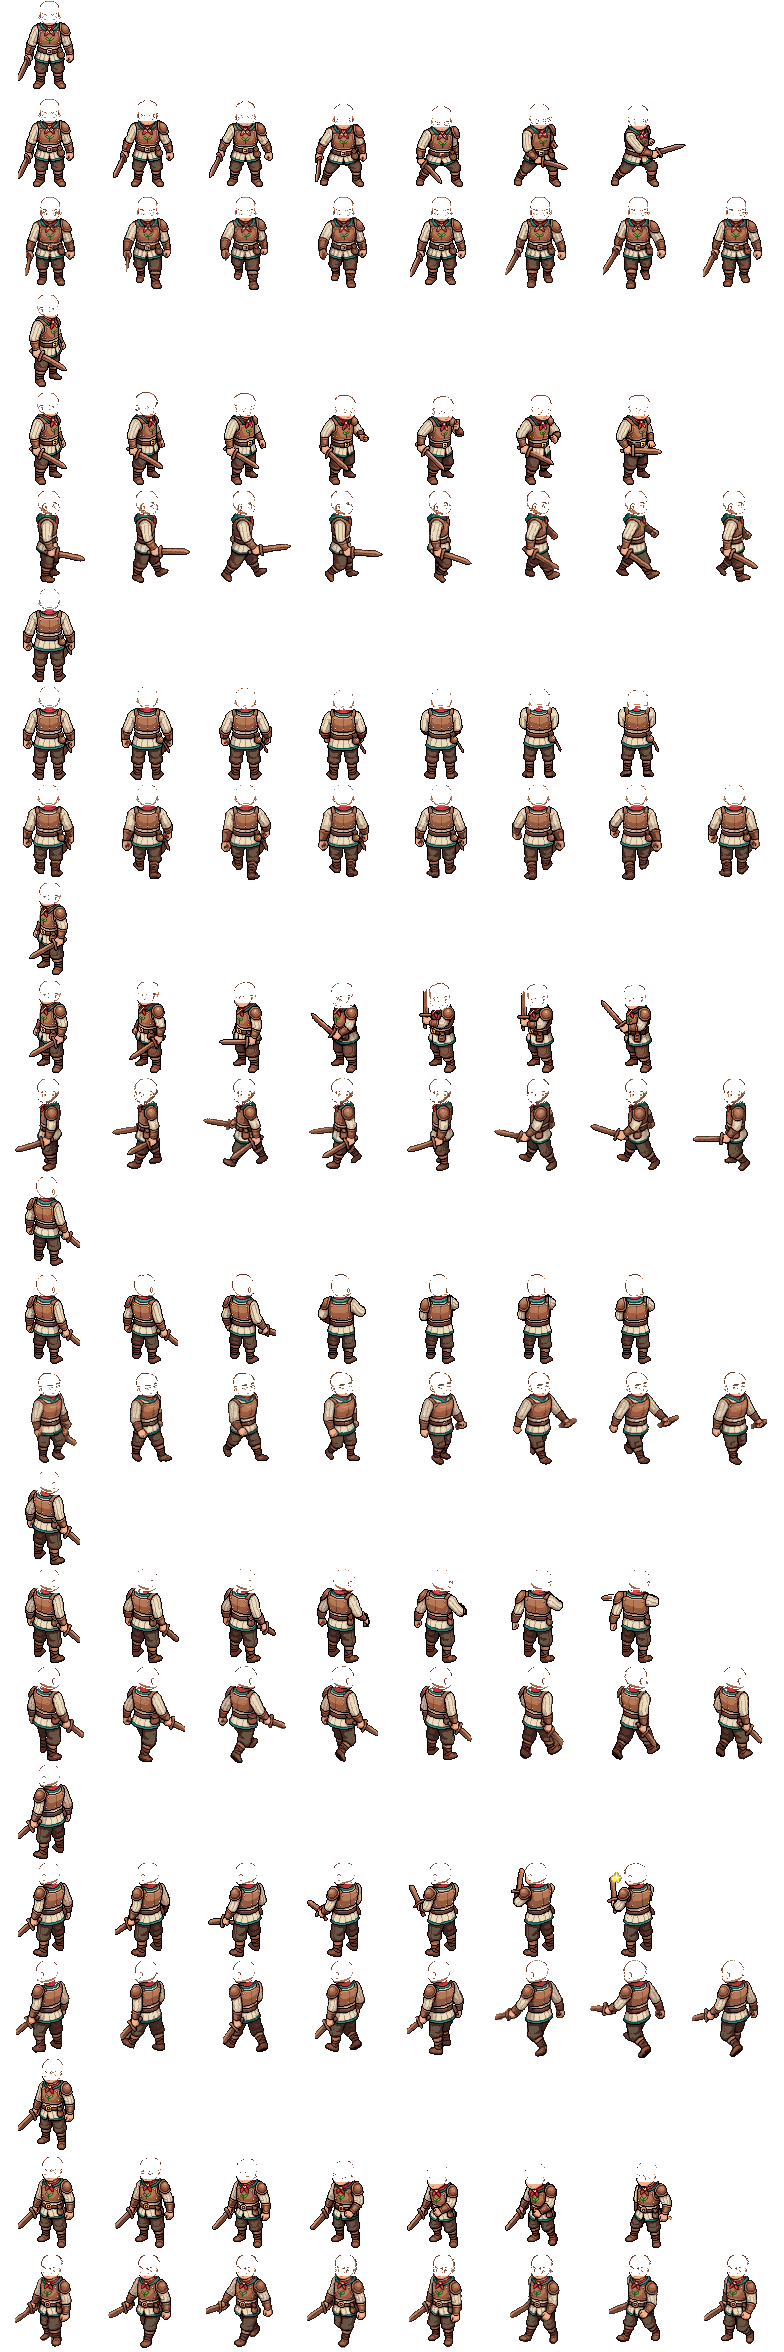
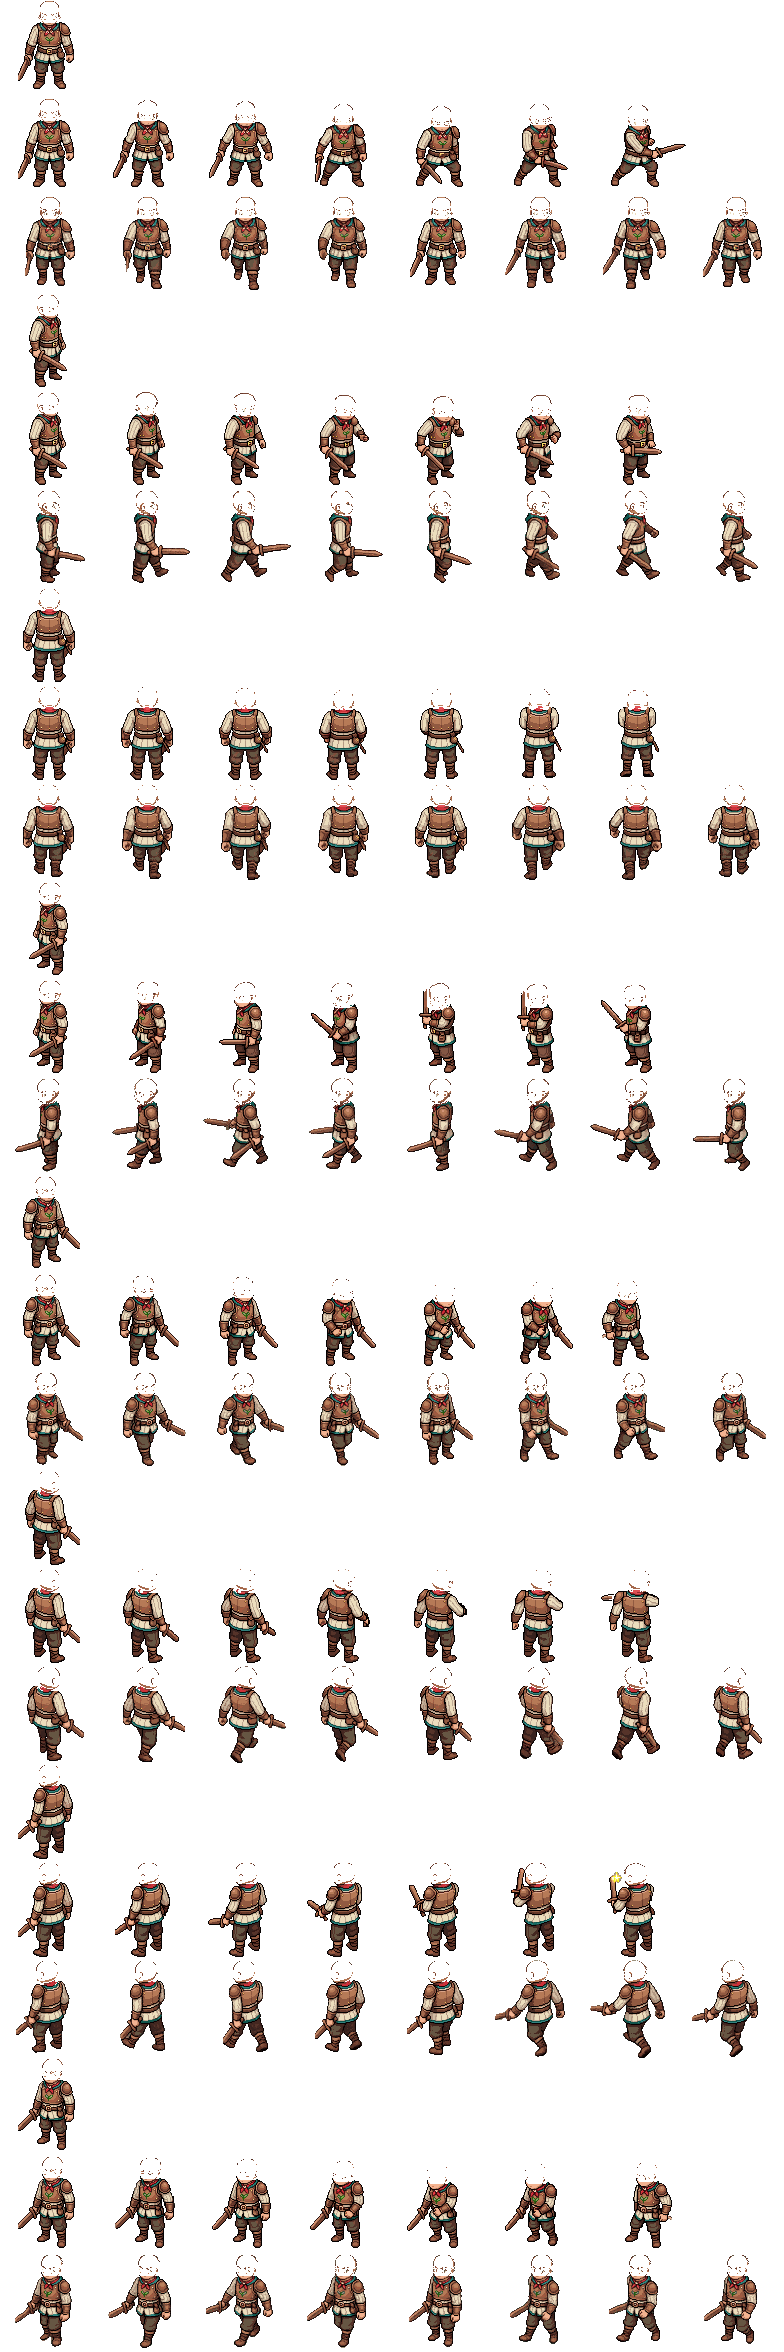
Trainee faces the front going south-east; heads a little bigger
The Trainee's south-east views came out from behind, so they are now its south-west ones
mirrored (the packer's mirror option covers the diagonals). Heads are scaled up a little.

Claude-Session: https://claude.ai/code/session_011XQ9QCw3CGEUAN2nqYKZsD

diff --git a/src/player.js b/src/player.js
@@ -102,7 +102,7 @@ export class Player {
   // an older one measured its hair, so the bald head fills a little less of it
   setHeadScale(art) {
     const h = art.anims.down.idle[0].userData.head, d = HEADS?.dirs?.down;
-    if (h && d) this.headScale = ((h.neck - h.crown) / (d.chin[1] - d.crown)) * (art.bald ? 1.04 : 0.92);
+    if (h && d) this.headScale = ((h.neck - h.crown) / (d.chin[1] - d.crown)) * (art.bald ? 1.12 : 1.0); // a little big, like Ragnarok's heads
   }
 
   // a different sprite set (the Novice and the Swordsman look different)

diff --git a/build-tools/pack-sprites.py b/build-tools/pack-sprites.py
@@ -14,7 +14,7 @@ SRC = os.path.join(ROOT, 'art', 'pixellab')
 OUT = os.path.join(ROOT, 'src', 'art')
 DIRS = {'south': 'down', 'east': 'right', 'north': 'up', 'west': 'left'}
 DIAGONALS = {'south-east': 'downright', 'north-east': 'upright', 'north-west': 'upleft', 'south-west': 'downleft'}
-MIRROR = {'right': 'left', 'left': 'right'}
+MIRROR = {'right': 'left', 'left': 'right', 'downright': 'downleft', 'downleft': 'downright', 'upright': 'upleft', 'upleft': 'upright'}
 
 # name -> options.
 #   eight:   also pack the four diagonal directions
@@ -42,7 +42,9 @@ CHARS['novice'] = {'eight': True, 'use': {'walk': 'walking'}, 'skip': {'dodge'},
                    'eyes': {'down': [-5, 19, 6, 19], 'right': [6, 18]}}
 CHARS['sorcerer'] = {'eight': True, 'use': {'walk': 'walking'}, 'skip': {'dodge'}, 'strip': True}
 # the character standard (docs/character-standard.md): the new Trainee, bald, walk and attack only
-CHARS['trainee'] = {'eight': True, 'use': {'walk': 'walking'}, 'strip': True, 'bald': True}
+# its south-east views came out facing away: they are the south-west ones mirrored
+CHARS['trainee'] = {'eight': True, 'use': {'walk': 'walking'}, 'strip': True, 'bald': True,
+                    'mirror': {('idle', 'downright'), ('walk', 'downright'), ('attack', 'downright')}}
 CHARS['embla'] = {'eight': True}
 CHARS.update({name: {'eight': True, 'use': {'walk': 'walking'}, 'strip': True, 'bald': True} for name in ['blader', 'sorc']})  # the Sorcerer, made like the Trainee
 
